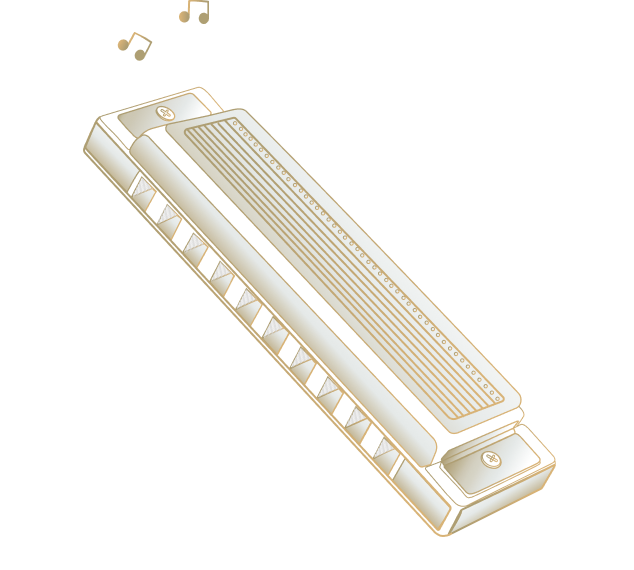
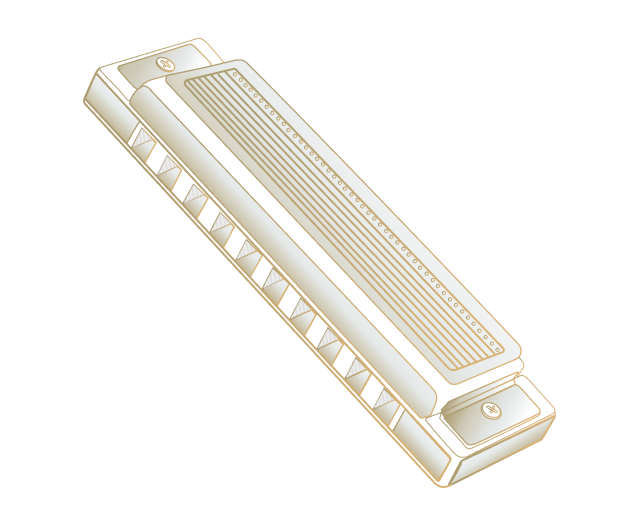
CSS: adjusting hero container + html:responsive img

Changed region(s): [[0.1199, 0.0, 0.8991, 0.952]]

diff --git a/index.html b/index.html
@@ -15,22 +15,31 @@
       <div class="nav__container">
         <img class="logo" src="./assets/logo.png">
         <ul class="nav">
-          <li class="nav__item"><a class="nav__link" href="">China</a></li>
-          <li class="nav__item"><a class="nav__link" href="">Germany</a></li>
-          <li class="nav__item"><a class="nav__link" href="">The USA</a></li>
+          <li class="nav__item"><a href="#china">China</a></li>
+          <li class="nav__item"><a href="#germany">Germany</a></li>
+          <li class="nav__item"><a href="#usa">The USA</a></li>
         </ul>
         <img class="hamburger" src="./assets/hamburger.png">
       </div>
-      <div class="hero__container">
-        <h1 class="hero__title">Harmonica</h1>
-        <p>the evolution of</p>
-        <img class="img__harmonica" src="assets/harmonica.png" alt="illustration of harmonica instrument" width="415"
-          height="340">
-        <p>Begin the journey</p>
-      </div>
+      <section class="hero__container">
+        <h2 class="hidden">Learn about the Harmonica</h1>
+          <img class="img__notes-sm" src="assets/sm-notes.png" alt="illustration of music notes" width="32"
+            height="46">
+          <div class="txt__wrp--hero">
+            <h1 class="hero__title">Harmonica</h1>
+            <p>the evolution of</p>
+          </div>
+          <picture>
+            <img class="img__harmonica" sizes="(max-width: 500px) 100vw, 500px" 
+            srcset="
+             assets/harmonica.png,w_300.png 300w,
+             assets/harmonica.png 634w" src="assets/harmonica.png" alt="illustration of a harmonica">
+          </picture>
+          <p>Begin the journey</p>
+      </section>
     </header>
     <section class="china__container">
-      <h2 class="hidden">Section China</h2>
+      <h2 class="hidden" id="china">Section China</h2>
       <div>
         <p>chapter one</p>
         <h2 class="chapter__title">CHINA</h2>
@@ -58,7 +67,7 @@
         </div>
         <img class="" src="" alt="" width="" height="">
       </section>
-    
+
     </section>
     <section class="journey__container">
       <div>
@@ -74,33 +83,35 @@
       <img class="" src="" alt="" width="" height="">
     </section>
     <section class="germany__container--p1">
-          <h2 class="hidden">Section Germany part 1</h2>
+      <h2 class="hidden">Section Germany part 1</h2>
+      <div>
+        <p>chapter two</p>
+        <h2 class="chapter__title">Germany</h2>
+        <h3 class="gradients">1820</h3>
+      </div>
+      {# <img class="img__shadow" src="" alt="" width="" height=""> #}
+      {# <img class="img__revealface" src="" alt="" width="" height=""> #}
+      <section>
+        <h3>From Terpodians <span>to the Aura</span></h3>
+        <h2>The first harmonica</h2>
+        <div>
           <div>
-            <p>chapter two</p>
-            <h2 class="chapter__title">Germany</h2>
-            <h3 class="gradients">1820</h3>
+            <p>Christian Frederich Buschmann, a German instrument maker, was exploring ways to simplify the tuning of
+              pianos,when he
+              created the first harmonica.</p>
           </div>
-          {# <img class="img__shadow" src="" alt="" width="" height=""> #}
-          {# <img class="img__revealface" src="" alt="" width="" height=""> #}
-          <section>
-            <h3>From Terpodians <span>to the Aura</span></h3>
-            <h2>The first harmonica</h2>
-            <div>
-              <div>
-                <p>Christian Frederich Buschmann, a German instrument maker, was exploring ways to simplify the tuning of pianos,when he
-                created the first harmonica.</p>
-              </div>
-              <div>
-                <p>The harmonica was called <span class="bold">the Aura</span>, and was inspired by a small device used for tuning, called Terpodians.</p>
-              </div>
-            </div>
-            <div>
-              <p>Built of 21 metal reeds, the Aura had yet to evolve, as currently it could only play notes when blown.</p>
-            </div>
-            <img class="img__magnify" src="" alt="" width="" height="">
-          </section>
+          <div>
+            <p>The harmonica was called <span class="bold">the Aura</span>, and was inspired by a small device used for
+              tuning, called Terpodians.</p>
+          </div>
+        </div>
+        <div>
+          <p>Built of 21 metal reeds, the Aura had yet to evolve, as currently it could only play notes when blown.</p>
+        </div>
+        <img class="img__magnify" src="" alt="" width="" height="">
+      </section>
     </section>
-    <section class="germany__container--p2">
+    <section class="germany__container--p2" id="germany">
       <h2 class="hidden">Section Germany part 2</h2>
       <div>
         <h3 class="gradients">1825</h3>
@@ -110,19 +121,22 @@
         <h2>The Modern Harmonica</h2>
         <div>
           <div>
-            <p>Joseph Richter introduced the first diatonic harmonica featuring <span class="bold">both blow and draw notes</span> by adding a second set of
-            reeds. This marked a significant turning point in the evolution of the instrument</p>
+            <p>Joseph Richter introduced the first diatonic harmonica featuring <span class="bold">both blow and draw
+                notes</span> by adding a second set of
+              reeds. This marked a significant turning point in the evolution of the instrument</p>
           </div>
           <div>
-            <p>The modern diatonic harmonica, as we know it today, is characterised by its 10 holes and 2 reed plates, each equipped
-            with 10 metal reeds. Depending on where you are located, <span class="bold">the diatonic harmonica can be referred as the blues harp in the
-            West or as the tremolo harmonica in East..</span></p>
+            <p>The modern diatonic harmonica, as we know it today, is characterised by its 10 holes and 2 reed plates,
+              each equipped
+              with 10 metal reeds. Depending on where you are located, <span class="bold">the diatonic harmonica can be
+                referred as the blues harp in the
+                West or as the tremolo harmonica in East..</span></p>
           </div>
         </div>
         <div>
           <p>Built of 21 metal reeds, the Aura had yet to evolve, as currently it could only play notes when blown.</p>
         </div>
-       {#  <canvas></canvas> #}
+        {# <canvas></canvas> #}
       </section>
     </section>
     <section class="hohner__container">
@@ -134,7 +148,7 @@
         <h2>Hohner</h2>
       </section>
     </section>
-    <section class="usa__container">
+    <section class="usa__container" id="usa">
       <h2 class="hidden">Section America</h2>
       <div>
         <p>chapter three</p>
@@ -143,10 +157,12 @@
       <section>
         <h3>Lorem Ipsum</h3>
         <h2>Lorem Ipsum</h2>
-        <div><p></p></div>
-    </section>
-    <section class="mim__container">
-    </section>
+        <div>
+          <p></p>
+        </div>
+      </section>
+      <section class="mim__container">
+      </section>
   </div>
   <script src="grained.min.js"></script>
   <script type="module" src="/main.js"></script>

diff --git a/src/css/style.css b/src/css/style.css
@@ -19,6 +19,7 @@
 html,
 body {
   height: 100vh;
+  width: 100vw; 
   background-color: var(--color-background);
 }
 
@@ -28,9 +29,9 @@ body {
   --color-white: #D9D9D9;
   --color-goldfont: linear-gradient(180deg,
       rgba(251, 213, 122, 1) 27%,
-      rgba(242, 205, 137, 1) 47%,
-      rgba(250, 215, 125, 1) 57%,
-      rgba(92, 74, 44, 1) 88%);
+        rgba(242, 205, 137, 1) 44%,
+        rgba(250, 215, 125, 1) 50%,
+        rgba(92, 74, 44, 1) 79%);
 
 
 
@@ -88,7 +89,9 @@ p -> Montserrat extra light, 1,56rem,
 /*=======================================
        3.  Layout
 =========================================*/
-
+.hidden{
+  display:none;
+}
 .bg__grained {
   width: 100vw;
   height: 100vh;
@@ -125,7 +128,6 @@ p -> Montserrat extra light, 1,56rem,
 
 .nav__item a {
   text-decoration: none;
-  color: white;
 }
 
 .hamburger {
@@ -134,25 +136,40 @@ p -> Montserrat extra light, 1,56rem,
 
 
 
+/*HERO CONTAINER*/
+.img__notes-sm{
+  position:relative; 
+  margin: 0rem 16rem 2rem 0rem; 
+}
+
 .hero__title{
 font-size: var(--fs-xxl);
 font-family:var(--ff-h1);
+padding-block-start: .3rem; 
+border-bottom:.1rem solid var(--color-gold);
 }
 
-.hero__title, .chapter__title, .gradients{
--webkit-background-clip: text;
--webkit-text-fill-color: transparent;
-background-image: var(--color-goldfont);
-color: var(--color-gold); /* fallback in case clip and text fill color won't work  */
-}
-
-
-.hero__container p:nth-of-type(1) {
+.txt__wrp--hero p:nth-of-type(1) {
 font-size: var(--fs-m);
 font-family: var(--ff-h3);
 letter-spacing: var(--fspace-1);
 color: var(--color-white);
-font-weight: var(--fw-light);
+font-weight: var(--fw-extralight);
+}
+
+.txt__wrp--hero{
+  display: flex;
+  flex-direction: column-reverse;
+}
+/*GRADIENTS*/
+.hero__title,
+.chapter__title,
+.gradients, .nav__item a {
+  -webkit-background-clip: text;
+  -webkit-text-fill-color: transparent;
+  background-image: var(--color-goldfont);
+  color: var(--color-gold);
+  /* fallback in case clip and text fill color won't work  */
 }
 
 
@@ -185,4 +202,17 @@ font-weight: var(--fw-light);
   .hamburger {
     display: block;
   }
+  .img__harmonica{
+    transform: rotate(-20deg);
+  }
+
+  .hero__container {
+    display: flex;
+    flex-direction: column;
+    justify-content: center;
+    align-items: center;
+    padding-block-start: 6rem;
+  }
+
+
 }
